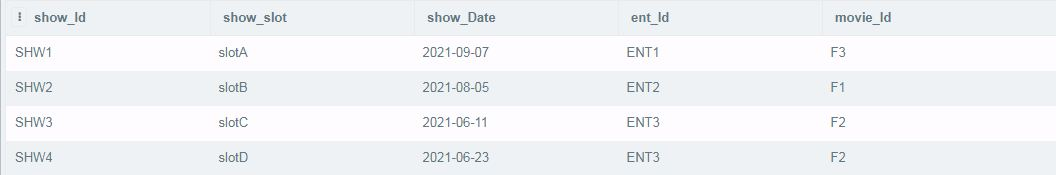
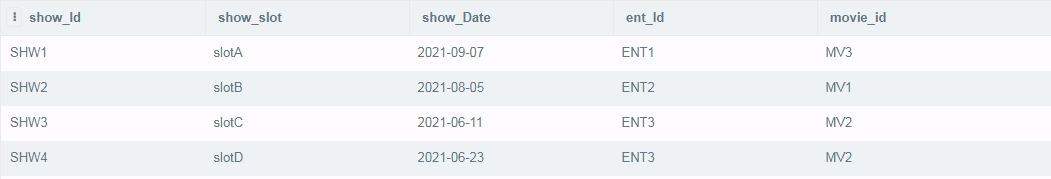
files modified

diff --git a/table/README.md b/table/README.md
@@ -8,13 +8,15 @@ CREATE TABLE movie
   duration VARCHAR NOT NULL,
   genre VARCHAR NOT NULL,
   rating VARCHAR NOT NULL,
-  lang VARCHAR NOTNULL,
+  lang VARCHAR NOT NULL,
   PRIMARY KEY (movie_id)
 );
  INSERT INTO Movie VALUES
-  ('Inception', '148', 'Thriller', '5'),
-  ('Iron-Man 2', '100', 'Sci-Fi', '5'),
-  ('The Eternals', '157', 'Sci-Fi', '4');
+  ('MV1', 'Inception', '148', 'Thriller', '5', 'E'),
+  ('MV2', 'Iron-Man 2', '100', 'Sci-Fi', '5', 'E'),
+  ('MV3', 'The Eternals', '157', 'Sci-Fi', '4', 'E'),
+  ('MV4', 'The Eternals', '157', 'Sci-Fi', '4', 'H'),
+  ('MV5', 'Iron-Man 2', '100', 'Sci-Fi', '5', 'H');
 
   SELECT * FROM Movie
 ```
@@ -72,10 +74,10 @@ CREATE TABLE shows
   FOREIGN KEY (movie_id) REFERENCES movie(movie_id)
 );
 INSERT INTO Shows VALUES
-  ('SHW1', 'slotA', '2021-09-07', 'ENT1', 'The Eternals'),
-  ('SHW2', 'slotB', '2021-08-05', 'ENT2', 'Inception'),
-  ('SHW3', 'slotC', '2021-06-11', 'ENT3', 'Iron-Man 2'),
-  ('SHW4', 'slotD', '2021-06-23', 'ENT3', 'Iron-Man 2' );
+  ('SHW1', 'slotA', '2021-09-07', 'ENT1', 'MV3'),
+  ('SHW2', 'slotB', '2021-08-05', 'ENT2', 'MV1'),
+  ('SHW3', 'slotC', '2021-06-11', 'ENT3', 'MV2'),
+  ('SHW4', 'slotD', '2021-06-23', 'ENT3', 'MV2');
 
   SELECT * FROM Shows
 ```
